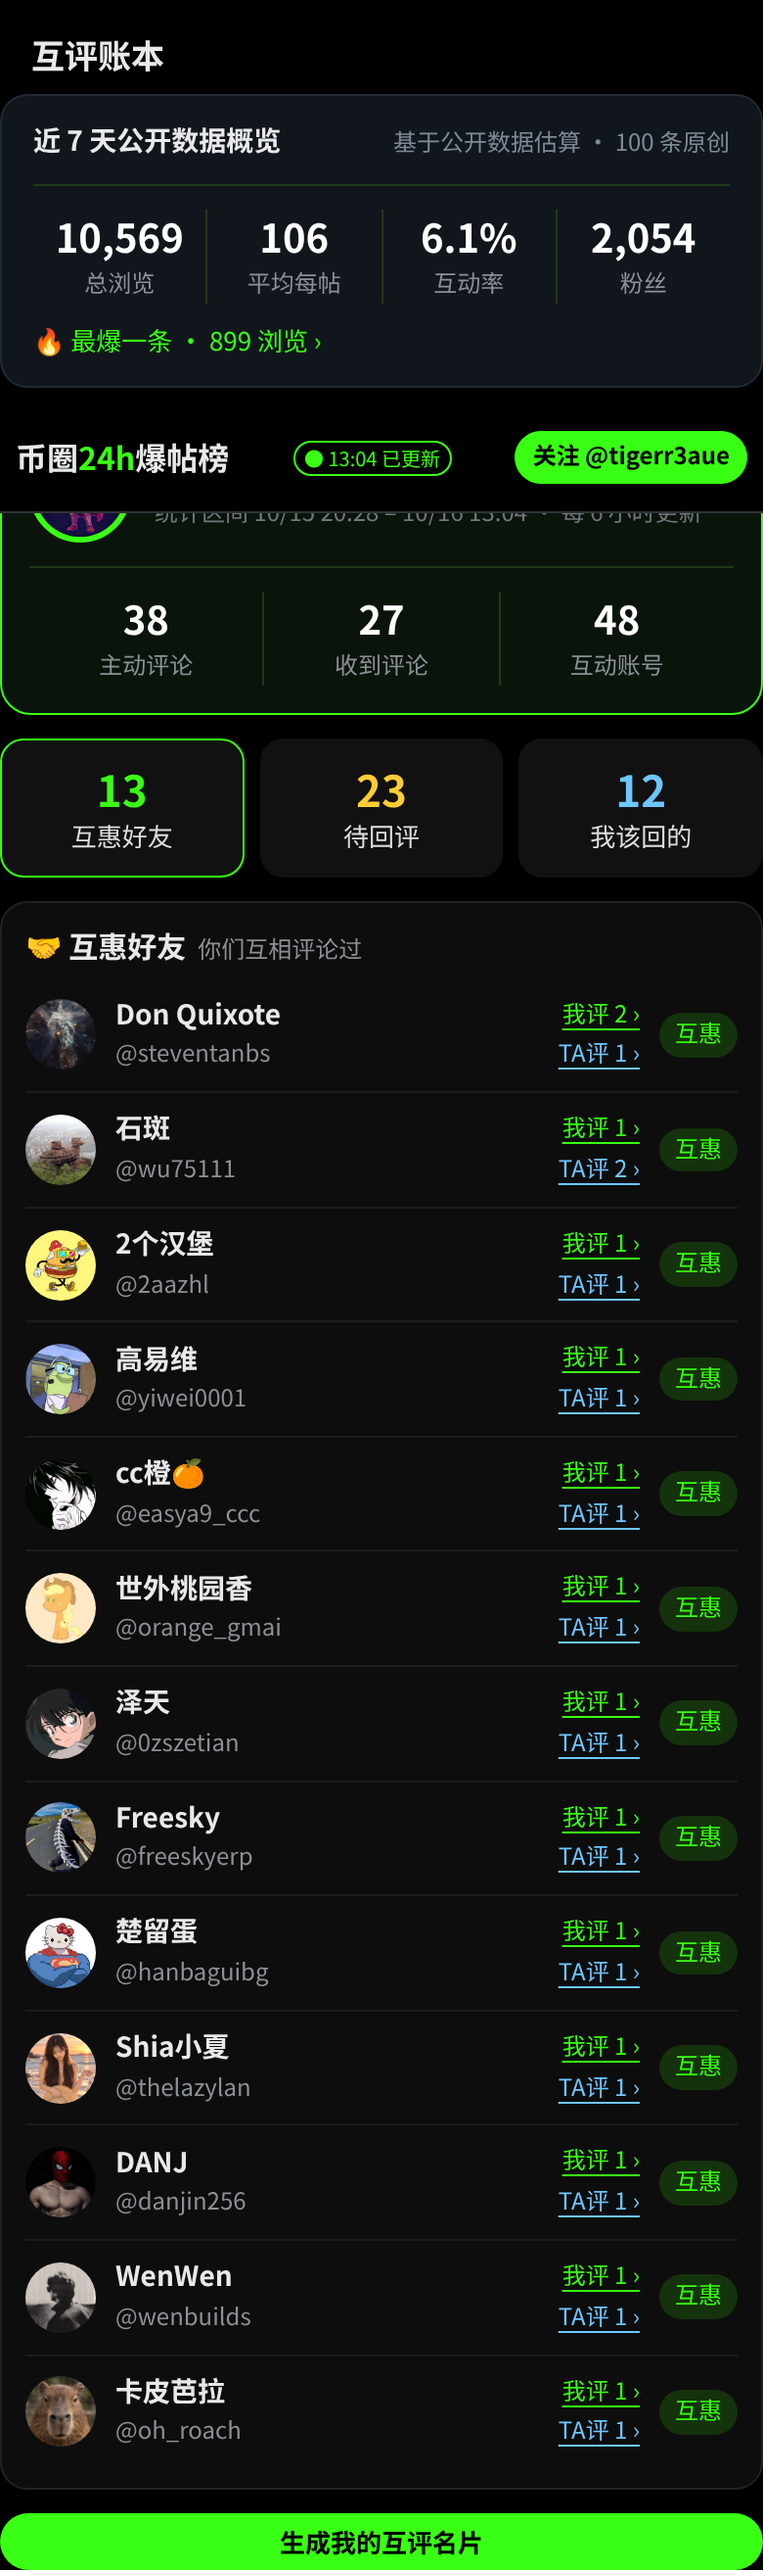
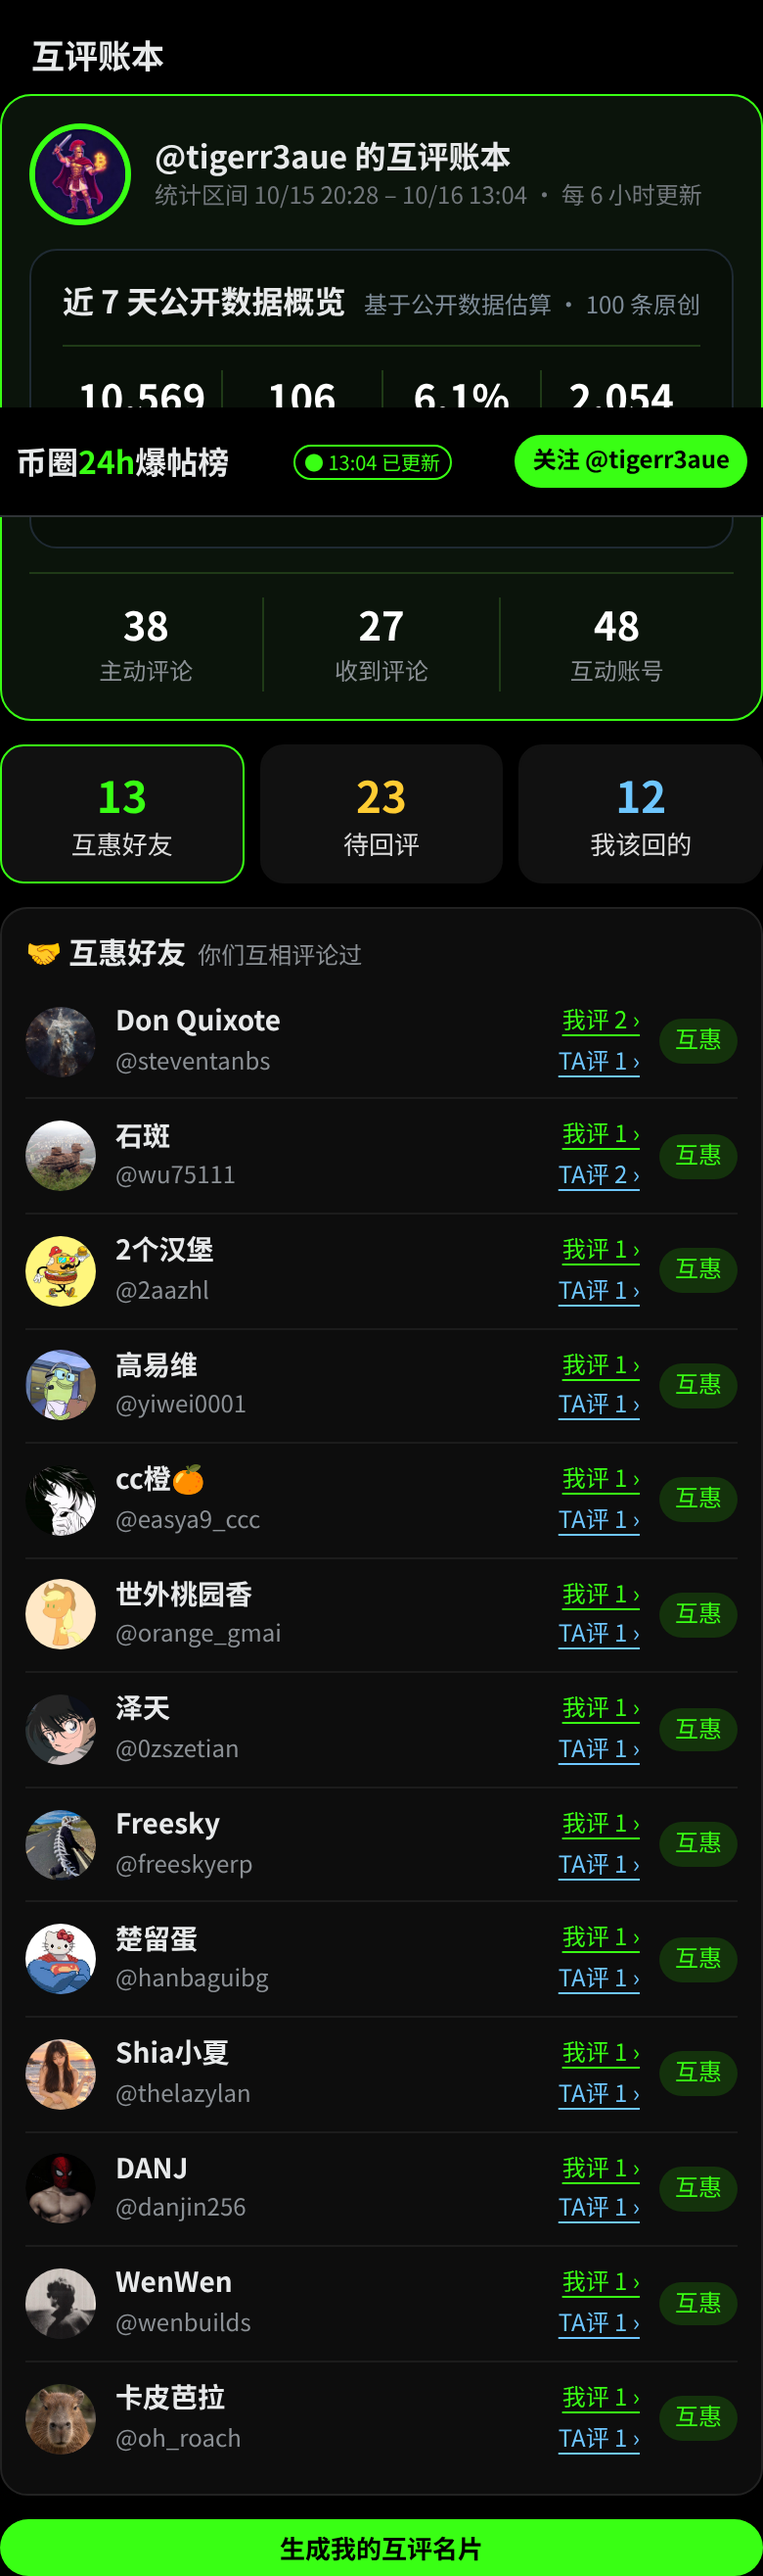
data: 2026-10-16 13:57 CST

diff --git a/app.js b/app.js
@@ -361,8 +361,8 @@ async function showLedger(raw, scroll) {
   const fmt = x => new Date(x).toLocaleString("zh-CN", { hour12: false, month: "numeric", day: "numeric", hour: "2-digit", minute: "2-digit" });
   const rng = since && L.updated_at ? fmt(since) + " – " + fmt(L.updated_at) : "";
   const tm = (list || []).reduce((x, u) => x + (u.me_to || 0), 0), tt = (list || []).reduce((x, u) => x + (u.to_me || 0), 0);
-  const head = `<div class="lg-hd"><div class="lg-top"><img src="${esc(selfAv)}" alt="" onerror="this.outerHTML='<b class=ini>${esc(h[0].toUpperCase())}</b>'"><div><b>@${esc(h)} 的互评账本</b><div class="m">${rng ? "统计区间 " + rng : "统计近期互评"} · 每 6 小时更新</div></div></div>${list?.length ? `<div class="lg-kpi"><div><b>${tm}</b><span>主动评论</span></div><div><b>${tt}</b><span>收到评论</span></div><div><b>${list.length}</b><span>互动账号</span></div></div>` : ""}</div>`;
-  if (!list?.length) { out.innerHTML = `<h3>互评账本</h3>${ov}${head}<div class="lg-sec"><div class="lg-empty">暂未收录，联系 <a href="https://x.com/tigerr3aue" target="_blank" rel="noopener" style="color:#39ff14">@tigerr3aue</a> 加入</div></div>`; if (scroll) out.scrollIntoView({ behavior: "smooth" }); return; }
+  const head = `<div class="lg-hd"><div class="lg-top"><img src="${esc(selfAv)}" alt="" onerror="this.outerHTML='<b class=ini>${esc(h[0].toUpperCase())}</b>'"><div><b>@${esc(h)} 的互评账本</b><div class="m">${rng ? "统计区间 " + rng : "统计近期互评"} · 每 6 小时更新</div></div></div>${ov}${list?.length ? `<div class="lg-kpi"><div><b>${tm}</b><span>主动评论</span></div><div><b>${tt}</b><span>收到评论</span></div><div><b>${list.length}</b><span>互动账号</span></div></div>` : ""}</div>`;
+  if (!list?.length) { out.innerHTML = `<h3>互评账本</h3>${head}<div class="lg-sec"><div class="lg-empty">暂未收录，联系 <a href="https://x.com/tigerr3aue" target="_blank" rel="noopener" style="color:#39ff14">@tigerr3aue</a> 加入</div></div>`; if (scroll) out.scrollIntoView({ behavior: "smooth" }); return; }
   const mu = list.filter(u => u.me_to > 0 && u.to_me > 0).sort((a, b) => (b.me_to + b.to_me) - (a.me_to + a.to_me));
   const wa = list.filter(u => u.me_to > 0 && !(u.to_me > 0)).sort((a, b) => b.me_to - a.me_to);
   const ow = list.filter(u => u.to_me > 0 && !(u.me_to > 0)).sort((a, b) => b.to_me - a.to_me);
@@ -374,7 +374,7 @@ async function showLedger(raw, scroll) {
       <a class="lg-n" href="${esc(profile(hd))}" target="_blank" rel="noopener"><b>${esc(u.name || hd)}</b><span>@${esc(hd)}</span></a>
       <div class="lg-c">${u.me_to > 0 && u.last_me_url ? `<a class="lg-g lg-l" href="${esc(u.last_me_url)}" target="_blank" rel="noopener">我评 ${u.me_to} ›</a>` : `<span class="lg-g">我评 ${u.me_to || 0}</span>`}${u.to_me > 0 && u.last_to_me_url ? `<a class="lg-b lg-l" href="${esc(u.last_to_me_url)}" target="_blank" rel="noopener">TA评 ${u.to_me} ›</a>` : `<span class="lg-b">TA评 ${u.to_me || 0}</span>`}</div>${btn}</div>`; };
   const sec = (k, ic, name, tip, arr, empty) => `<div class="lg-sec" data-k="${k}"><h4>${ic} ${name}<small>${tip}</small></h4>${arr.length ? arr.map(u => row(u, k)).join("") : `<div class="lg-empty">${empty}</div>`}</div>`;
-  out.innerHTML = `<h3>互评账本</h3>${ov}${head}
+  out.innerHTML = `<h3>互评账本</h3>${head}
     <div class="lg-sum"><button type="button" data-f="mu" class="on"><b class="lg-g">${mu.length}</b>互惠好友</button><button type="button" data-f="wa"><b class="lg-y">${wa.length}</b>待回评</button><button type="button" data-f="ow"><b class="lg-b">${ow.length}</b>我该回的</button></div>
     ${sec("mu", "🤝", "互惠好友", "你们互相评论过", mu, "还没有互惠好友，去评论区多走动走动")}
     ${sec("wa", "⏳", "待回评", "你评论过 TA，TA 还没来你这儿", wa, "没有待回评，大家都很讲究 👍")}

diff --git a/index.html b/index.html
@@ -7,7 +7,7 @@
 <meta name="description" content="每小时更新 X 上中文币圈 24 小时爆帖：曝光榜、评论榜、涨粉榜、照片墙。">
 <meta name="theme-color" content="#000000">
 <link rel="preload" href="data.json" as="fetch" crossorigin>
-<link rel="stylesheet" href="style.css?v=20261016135405">
+<link rel="stylesheet" href="style.css?v=20261016135746">
 </head>
 <body>
 <header>
@@ -59,7 +59,7 @@
 </footer>
 
 
-<script>window.ASSET_V="20261016135405"</script><script src="config.js?v=20261016135405"></script>
-<script src="app.js?v=20261016135405" defer></script>
+<script>window.ASSET_V="20261016135746"</script><script src="config.js?v=20261016135746"></script>
+<script src="app.js?v=20261016135746" defer></script>
 </body>
 </html>

diff --git a/style.css b/style.css
@@ -113,3 +113,4 @@ header .btn{padding:5px 9px;font-size:12px}
 .ov-t{display:flex;justify-content:space-between;align-items:baseline;gap:8px;flex-wrap:wrap}.ov-t span{font-size:12px;color:#7d8a96}
 .ov-k i{font-style:normal;font-size:11px;margin-left:4px}.ov-k i.up{color:#39ff14}.ov-k i.dn{color:#ff5a5a}
 .ov-top{display:block;margin-top:10px;font-size:13px;color:#39ff14;text-decoration:none}
+.lg-hd .ov{margin:12px 0 0;background:rgba(0,0,0,.25)}
